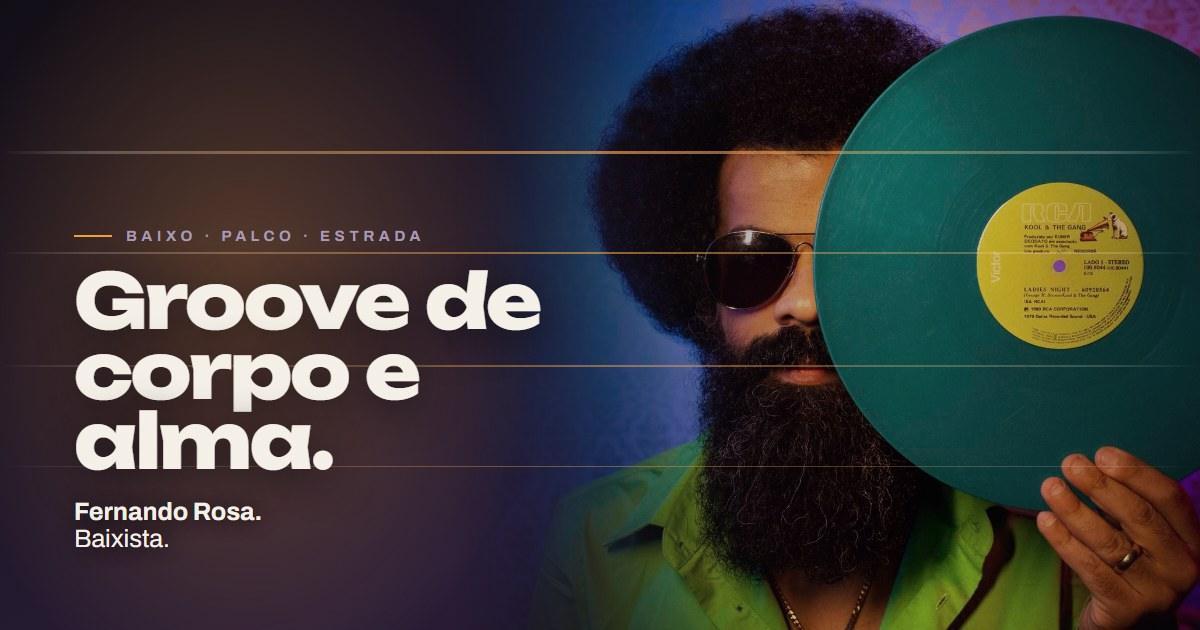
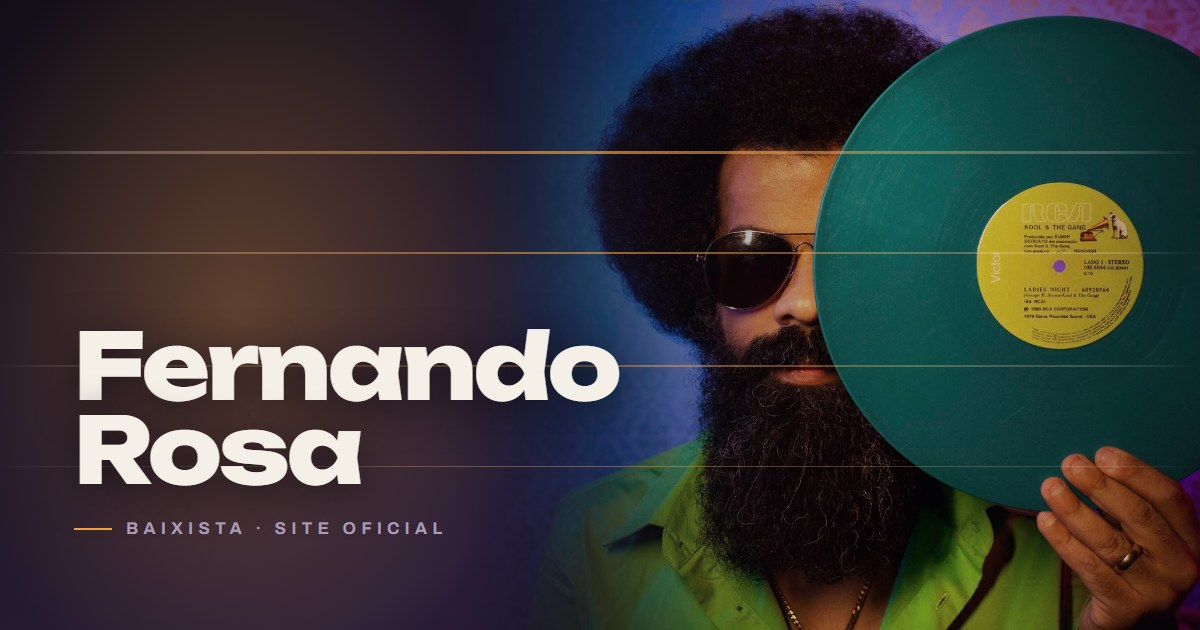
Titulo principal vira o nome dele
- "Groove de corpo e alma." era slogan forcado: o H1 passa a ser "Fernando Rosa",
  e a linha de baixo deixa de repetir o nome
- descricao do BLACKOUT perde o "feito para dancar"; card "Covers de groove"
  vira "Covers"
- og.jpg regerada: o card do WhatsApp tambem carregava a frase

Changed region(s): [[0.0617, 0.4222, 0.5242, 0.8746], [0.185, 0.3619, 0.37, 0.3921], [0.0617, 0.3619, 0.1542, 0.3921]]

diff --git a/index.html b/index.html
@@ -23,7 +23,7 @@
 <meta name="twitter:title" content="Fernando Rosa · Baixista · Site oficial">
 <meta name="twitter:description" content="Baixista de Itaquera, em São Paulo. Já tocou na banda de turnê de Lenny Kravitz e tem um show próprio, o BLACKOUT.">
 <meta name="twitter:image" content="https://fernando-rosa.vercel.app/og.jpg">
-<meta name="twitter:image:alt" content="Fernando Rosa segurando um vinil, com a frase Groove de corpo e alma.">
+<meta name="twitter:image:alt" content="Fernando Rosa segurando um vinil, com o nome dele e a palavra baixista.">
 <meta property="profile:first_name" content="Fernando">
 <meta property="profile:last_name" content="Rosa">
 <link rel="icon" href="favicon.svg" type="image/svg+xml">
@@ -606,8 +606,8 @@ html{scroll-behavior:smooth}
   <div class="hero__grao" aria-hidden="true"></div>
 
   <div class="hero__in">
-    <h1>Groove de corpo e alma.</h1>
-    <p class="hero__sub entrada"><b>Fernando Rosa</b> é baixista, nascido em Itaquera, na zona leste de São Paulo. Tocou com Lenny Kravitz e tem um show próprio, o BLACKOUT.</p>
+    <h1>Fernando Rosa</h1>
+    <p class="hero__sub entrada">Baixista de Itaquera, na zona leste de São Paulo. Tocou com Lenny Kravitz e tem um show próprio, o BLACKOUT.</p>
     <div class="hero__acoes entrada">
       <a class="btn btn--ambar btn--ingresso" id="heroCta" href="#shows">Ver a agenda</a>
       <a class="btn btn--linha" href="#booking">Booking</a>
@@ -643,7 +643,7 @@ html{scroll-behavior:smooth}
       <div class="blackout__texto" data-reveal>
         <h3>BLACKOUT</h3>
         <!-- Texto do próprio evento, publicado na página de ingressos. VALIDAR redação final com o artista. -->
-        <p>É o show solo do Fernando: uma noite de clássicos de pista, com repertório de groove e soul feito para dançar.</p>
+        <p>É o show solo do Fernando, com clássicos de groove e soul.</p>
         <!-- FALTA: foto de show do BLACKOUT, 1200x800px. O markup pronto para
              colar aqui esta no README.md, secao "Trocar as fotos". -->
       </div>
@@ -726,7 +726,7 @@ html{scroll-behavior:smooth}
     <div class="musica__grid">
       <a class="faixa faixa--grande" data-reveal href="https://www.youtube.com/@FernandoRosaBass" target="_blank" rel="noopener" style="text-decoration:none">
         <span class="faixa__num">01</span>
-        <h3 class="faixa__nome">Covers de groove</h3>
+        <h3 class="faixa__nome">Covers</h3>
         <span class="faixa__slot" style="border-style:solid;color:var(--claro)">Canal no YouTube</span>
       </a>
       <div class="faixa" data-reveal>
